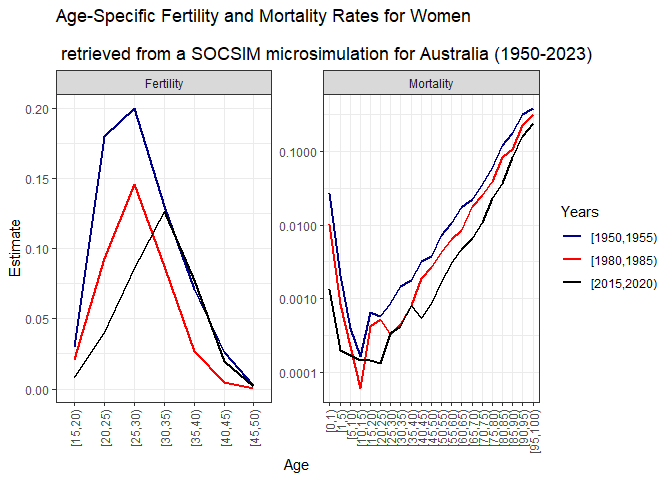
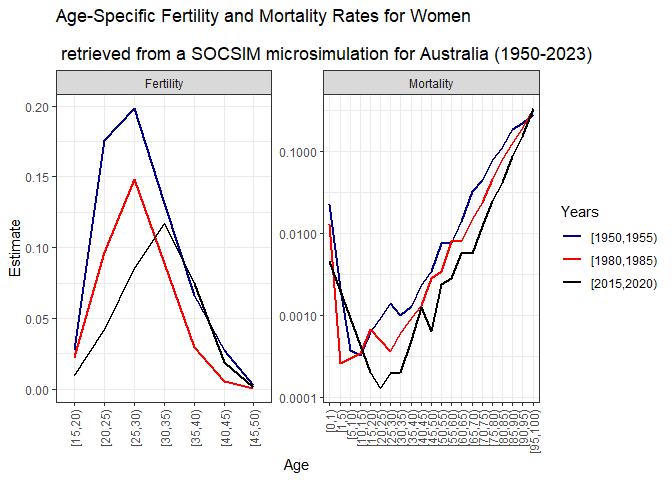
Modify the guidelines for installation of rsocsim

diff --git a/README.md b/README.md
@@ -64,8 +64,9 @@ et al. 2022).
 # 1. Setup
 
 We recommend that you go through point 1 of this tutorial **before** the
-start of the workshop. If you have any questions/difficulties, please
-get in touch with the workshop coordinator (XXX).
+start of the workshop. If you have any questions/difficulties with the
+installation of `rsocsim`, please get in touch with the software
+developet [Tom Theile](mailto:theile@demogr.mpg.de)
 
 <img src="logo.png" align="right" width="200" />
 
@@ -74,14 +75,44 @@ get in touch with the workshop coordinator (XXX).
 Install the development version of `rsocsim` from GitHub
 (<https://github.com/MPIDR/rsocsim>). We may have made changes to the
 `rsocsim` package ahead of this workshop. To be on the safe side, if you
-had already installed the package, please uninstall it and and install
-it again.
+have already installed the package, please uninstall and reinstall it.
+You can install `rsocsim` from source, which requires a compiler, or
+from a binary package. Choose the option that suits you best. For this
+workshop, we will use version 1.5.9 of `rsocsim`
+
+### 1.1.1 Installation from source (requires a compiler)
+
+To get the latest version, you need to have a Rcpp compatible compiler
+installed and some way to install packages from Github. Install a Rcpp
+compatible compiler: - on Windows: RTools - on Mac: xcode-select
+–install - on Linux: sudo apt-get install r-base-dev
+
+To install packages from Github, you can use the
+[`remotes`](https://cran.r-project.org/web/packages/remotes/index.html)
+or
+[`devtools`](https://cran.r-project.org/web/packages/devtools/index.html)
+packages.
 
 ``` r
 # remove.packages("rsocsim")
+# Using remotes
+remotes::install_github("MPIDR/rsocsim", ref='v1.5.9')
+
+# Using devtools
 # install.packages("devtools")
-devtools::install_github("MPIDR/rsocsim")
-# remotes::install_github("MPIDR/rsocsim", ref='v1.5.9')
+#devtools::install_github("MPIDR/rsocsim@v1.5.9")
+```
+
+### 1.1.2 Installation binary package
+
+Download the correct binary package from the [release section on
+Github](https://github.com/MPIDR/rsocsim/releases), version 1.5.9 We
+will use rsocsim_1.5.9.tgz Click here for
+(<https://github.com/MPIDR/rsocsim/releases/download/v1.5.9/rsocsim_1.5.9.tgz>).
+Then execute the following line in R and choose the downloaded file:
+
+``` r
+install.packages(file.choose(),repos=NULL,type="binary")
 ```
 
 Let’s see if everything is working fine. `rsocsim` has a simple built-in
@@ -110,7 +141,7 @@ rsocsim::socsim(folder,supfile,seed)
 ```
 
     ## [1] "Start run1simulationwithfile"
-    ## [1] "C:/Users/calderonbernal/socsim/socsim_sim_9958"
+    ## [1] "C:/Users/calderonbernal/socsim/socsim_sim_62"
     ## [1] "300"
     ## Start socsim
     ## start socsim main. MAXUYEARS: 200; MAXUMONTHS: 2400
@@ -148,17 +179,17 @@ rsocsim::socsim(folder,supfile,seed)
     ## Initial size of pop 8000  (living: 8000)
     ## ------------aa3s------------aa32New events generated for all living persons
     ## ------------b1month:  700 PopLive:  9414 Brths:  16 Dths:   0 Mrgs: 11 Dvs:  0 Mq: 3728 Fq:0 ti1: 0.3 ti2: 0.007000 0.5037
-    ## month:  800 PopLive: 10926 Brths:  12 Dths:   1 Mrgs:  6 Dvs:  0 Mq: 3890 Fq:0 ti1: 0.4 ti2: 0.008000 0.5287
-    ## month:  900 PopLive: 12260 Brths:  14 Dths:   0 Mrgs:  4 Dvs:  0 Mq: 4031 Fq:0 ti1: 0.6 ti2: 0.006000 0.3693
+    ## month:  800 PopLive: 10926 Brths:  12 Dths:   1 Mrgs:  6 Dvs:  0 Mq: 3890 Fq:0 ti1: 0.4 ti2: 0.007000 0.4626
+    ## month:  900 PopLive: 12260 Brths:  14 Dths:   0 Mrgs:  4 Dvs:  0 Mq: 4031 Fq:0 ti1: 0.5 ti2: 0.005000 0.3077
     ## month: 1000 PopLive: 13397 Brths:   9 Dths:   2 Mrgs:  4 Dvs:  0 Mq: 4134 Fq:0 ti1: 0.7 ti2: 0.006000 0.3511
-    ## month: 1100 PopLive: 14172 Brths:  16 Dths:   6 Mrgs:  6 Dvs:  0 Mq: 4135 Fq:0 ti1: 0.9 ti2: 0.009000 0.5264
-    ## month: 1200 PopLive: 14518 Brths:  13 Dths:  11 Mrgs:  6 Dvs:  0 Mq: 4000 Fq:0 ti1: 1.0 ti2: 0.006000 0.3750
-    ## month: 1300 PopLive: 14323 Brths:  14 Dths:  20 Mrgs:  4 Dvs:  0 Mq: 3891 Fq:0 ti1: 1.2 ti2: 0.008000 0.5284
-    ## month: 1400 PopLive: 13816 Brths:  13 Dths:  15 Mrgs:  4 Dvs:  0 Mq: 3746 Fq:0 ti1: 1.4 ti2: 0.007000 0.4988
-    ## month: 1500 PopLive: 13330 Brths:  11 Dths:  11 Mrgs:  5 Dvs:  0 Mq: 3679 Fq:0 ti1: 1.5 ti2: 0.009000 0.6649
-    ## month: 1600 PopLive: 12944 Brths:  10 Dths:  15 Mrgs:  4 Dvs:  0 Mq: 3593 Fq:0 ti1: 1.7 ti2: 0.007000 0.5422
-    ## month: 1700 PopLive: 12525 Brths:  10 Dths:  20 Mrgs:  5 Dvs:  0 Mq: 3436 Fq:0 ti1: 1.8 ti2: 0.006000 0.5082
-    ## month: 1800 PopLive: 12009 Brths:  10 Dths:  16 Mrgs:  7 Dvs:  0 Mq: 3275 Fq:0 ti1: 1.9 ti2: 0.008000 0.7459
+    ## month: 1100 PopLive: 14172 Brths:  16 Dths:   6 Mrgs:  6 Dvs:  0 Mq: 4135 Fq:0 ti1: 0.8 ti2: 0.008000 0.4679
+    ## month: 1200 PopLive: 14518 Brths:  13 Dths:  11 Mrgs:  6 Dvs:  0 Mq: 4000 Fq:0 ti1: 1.0 ti2: 0.007000 0.4375
+    ## month: 1300 PopLive: 14323 Brths:  14 Dths:  20 Mrgs:  4 Dvs:  0 Mq: 3891 Fq:0 ti1: 1.1 ti2: 0.007000 0.4624
+    ## month: 1400 PopLive: 13816 Brths:  13 Dths:  15 Mrgs:  4 Dvs:  0 Mq: 3746 Fq:0 ti1: 1.3 ti2: 0.007000 0.4988
+    ## month: 1500 PopLive: 13330 Brths:  11 Dths:  11 Mrgs:  5 Dvs:  0 Mq: 3679 Fq:0 ti1: 1.4 ti2: 0.008000 0.5911
+    ## month: 1600 PopLive: 12944 Brths:  10 Dths:  15 Mrgs:  4 Dvs:  0 Mq: 3593 Fq:0 ti1: 1.6 ti2: 0.007000 0.5422
+    ## month: 1700 PopLive: 12525 Brths:  10 Dths:  20 Mrgs:  5 Dvs:  0 Mq: 3436 Fq:0 ti1: 1.7 ti2: 0.006000 0.5082
+    ## month: 1800 PopLive: 12009 Brths:  10 Dths:  16 Mrgs:  7 Dvs:  0 Mq: 3275 Fq:0 ti1: 1.8 ti2: 0.008000 0.7459
     ## 
     ## 
     ## Socsim Main Done
@@ -442,12 +473,12 @@ head(opop)
 ```
 
     ##   pid fem group nev dob mom pop nesibm nesibp lborn marid mstat  dod    fmult
-    ## 1   1   0     1  65 929   0   0      0      0     0     0     1 1836 0.000000
-    ## 2   2   0     1  65 690   0   0      0      0 11914  1491     4 1620 0.000000
-    ## 3   3   0     1  65 573   0   0      0      0     0     0     1 1475 0.000000
-    ## 4   4   0     1  65 707   0   0      0      0 14904  1328     4 1628 0.000000
-    ## 5   5   1     1  65 556   0   0      0      0     0     0     1 1638 2.042263
-    ## 6   6   1     1  65 806   0   0      0      0 15048   471     3 1757 0.758478
+    ## 1   1   1     1  65 766   0   0      0      0 13533   919     4 1513 2.042263
+    ## 2   2   1     1  65 629   0   0      0      0 10111   111     3 1566 0.758478
+    ## 3   3   0     1  65 582   0   0      0      0     0     0     1 1326 0.000000
+    ## 4   4   1     1  65 946   0   0      0      0 21475  3031     4 1548 2.071625
+    ## 5   5   0     1  65 765   0   0      0      0 14995   613     4 1326 0.000000
+    ## 6   6   1     1  65 695   0   0      0      0 15679   170     3 1704 0.696812
 
 The marriage file (.omar) contains one record for each marriage. Each
 marriage record provides the following information: marriage id number
@@ -462,12 +493,12 @@ head(omar)
 ```
 
     ##   mid wpid hpid dstart dend rend wprior hprior
-    ## 1   1 6123 4570   1001 1500    3      0      0
-    ## 2   2 6306 2836   1001 1437    3      0      0
-    ## 3   3 7030 2012   1001 1489    3      0      0
-    ## 4   4 7256 9786   1001 1429    3      0      0
-    ## 5   5 6659 3087   1001 1272    3      0      0
-    ## 6   6 4080  723   1001 1442    3      0      0
+    ## 1   1 4364 6350   1001 1354    3      0      0
+    ## 2   2 3913 7541   1001 1448    3      0      0
+    ## 3   3 3621 9985   1001 1136    3      0      0
+    ## 4   4  654 3647   1001 1142    3      0      0
+    ## 5   5 9832 2060   1001 1497    3      0      0
+    ## 6   6 2625 4467   1001 1410    3      0      0
 
 ## 2.5. Estimate age-specific rates from the SOCSIM microsimulation
 
@@ -890,7 +921,7 @@ kinloss_data %>%
   theme_bw() 
 ```
 
-<img src="README_files/figure-gfm/unnamed-chunk-9-1.png" style="display: block; margin: auto;" />
+<img src="README_files/figure-gfm/unnamed-chunk-10-1.png" style="display: block; margin: auto;" />
 
 This graph shows the evolution of rates of kin loss for women in recent
 decades. As it could be expected for this age group, the highest rates
@@ -914,7 +945,7 @@ scale_x_continuous(breaks = seq(1950, 2020,by = 10))+
   theme_bw() 
 ```
 
-<img src="README_files/figure-gfm/unnamed-chunk-10-1.png" style="display: block; margin: auto;" />
+<img src="README_files/figure-gfm/unnamed-chunk-11-1.png" style="display: block; margin: auto;" />
 
 In fact, grandparents and, to a lesser extent, parents are the relatives
 whose availability has increased significantly in recent decades. On the
